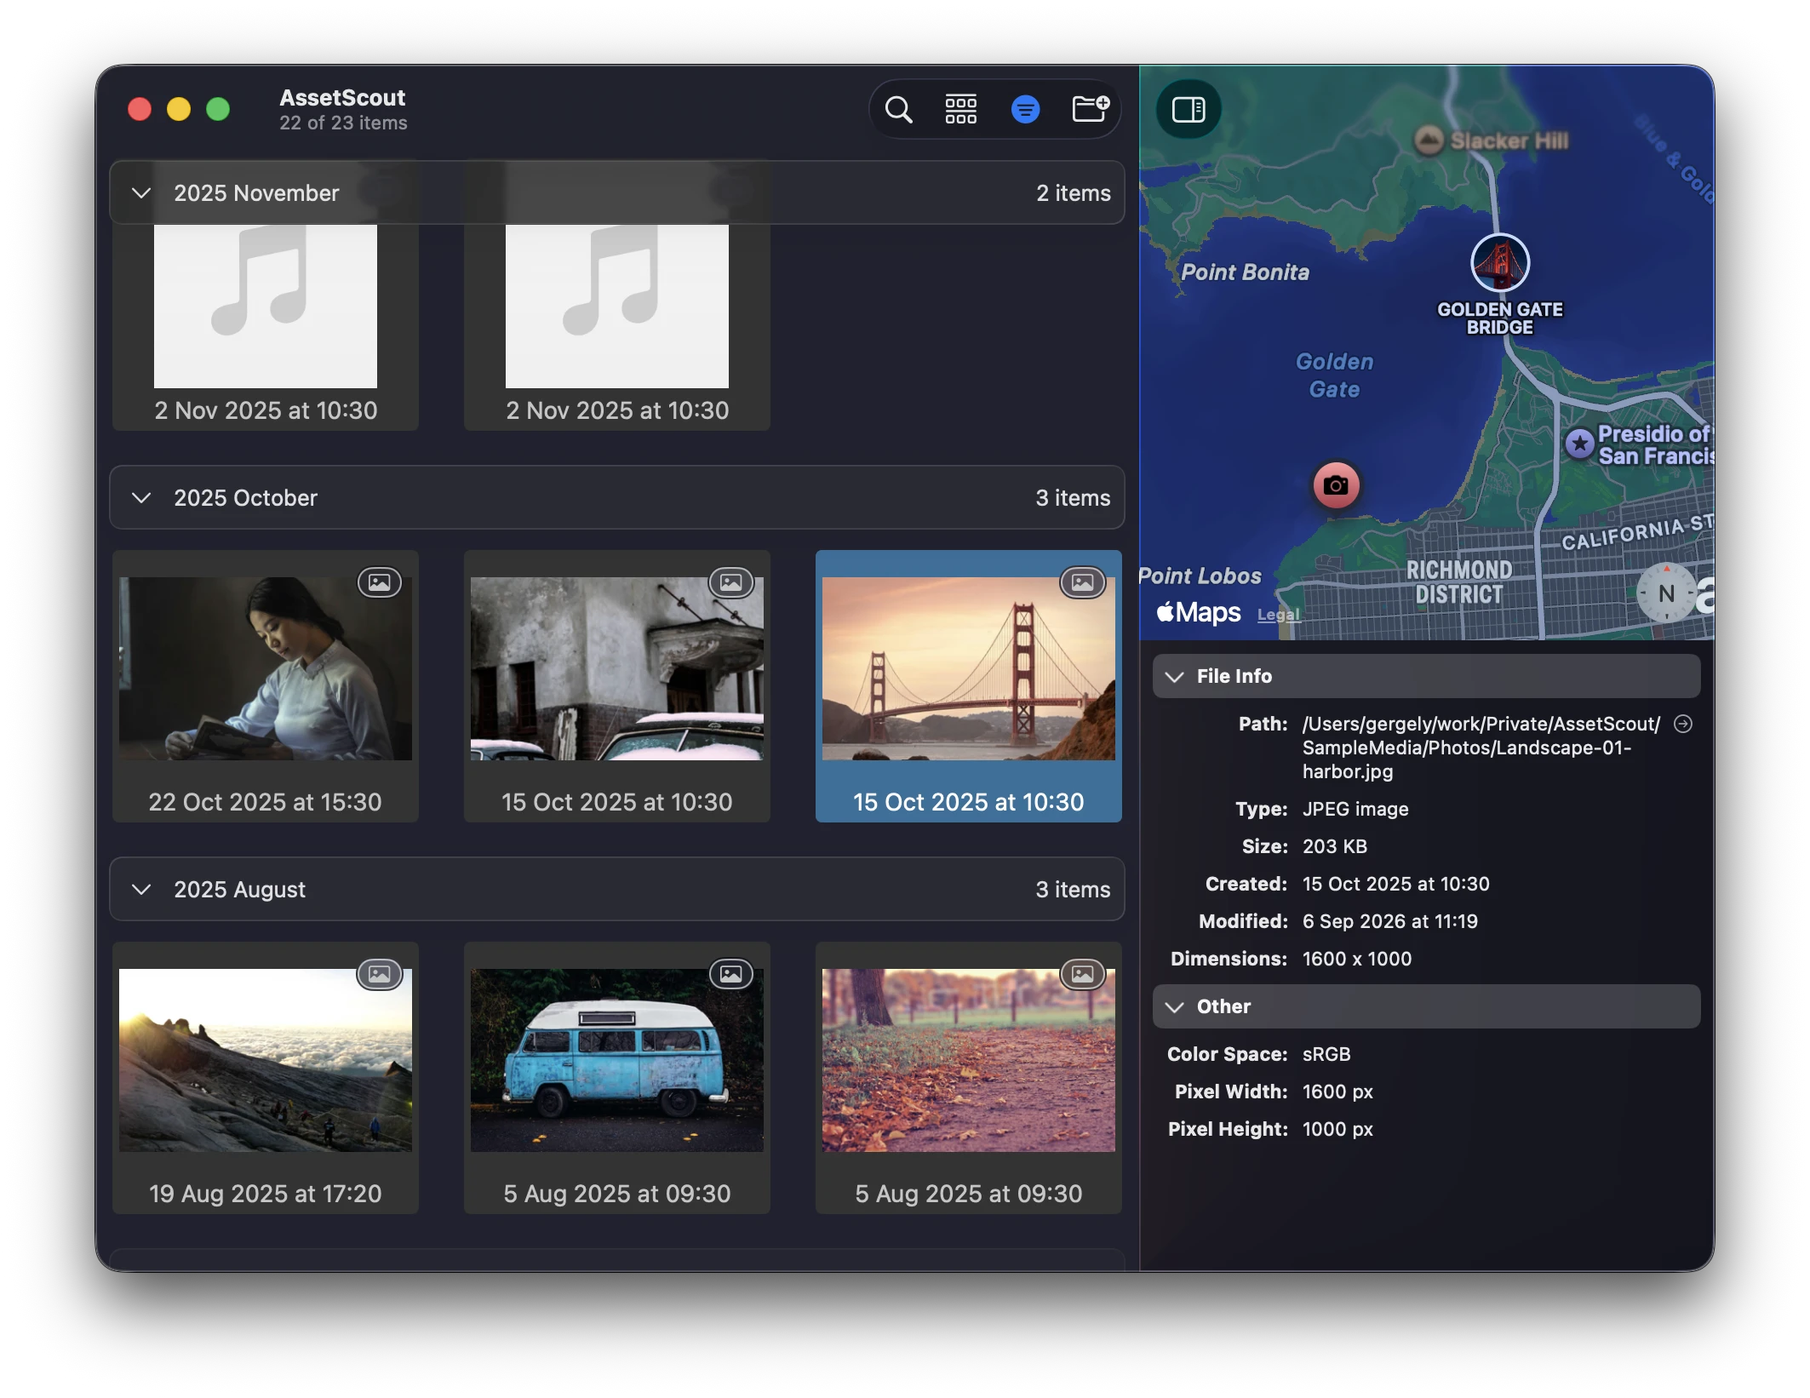
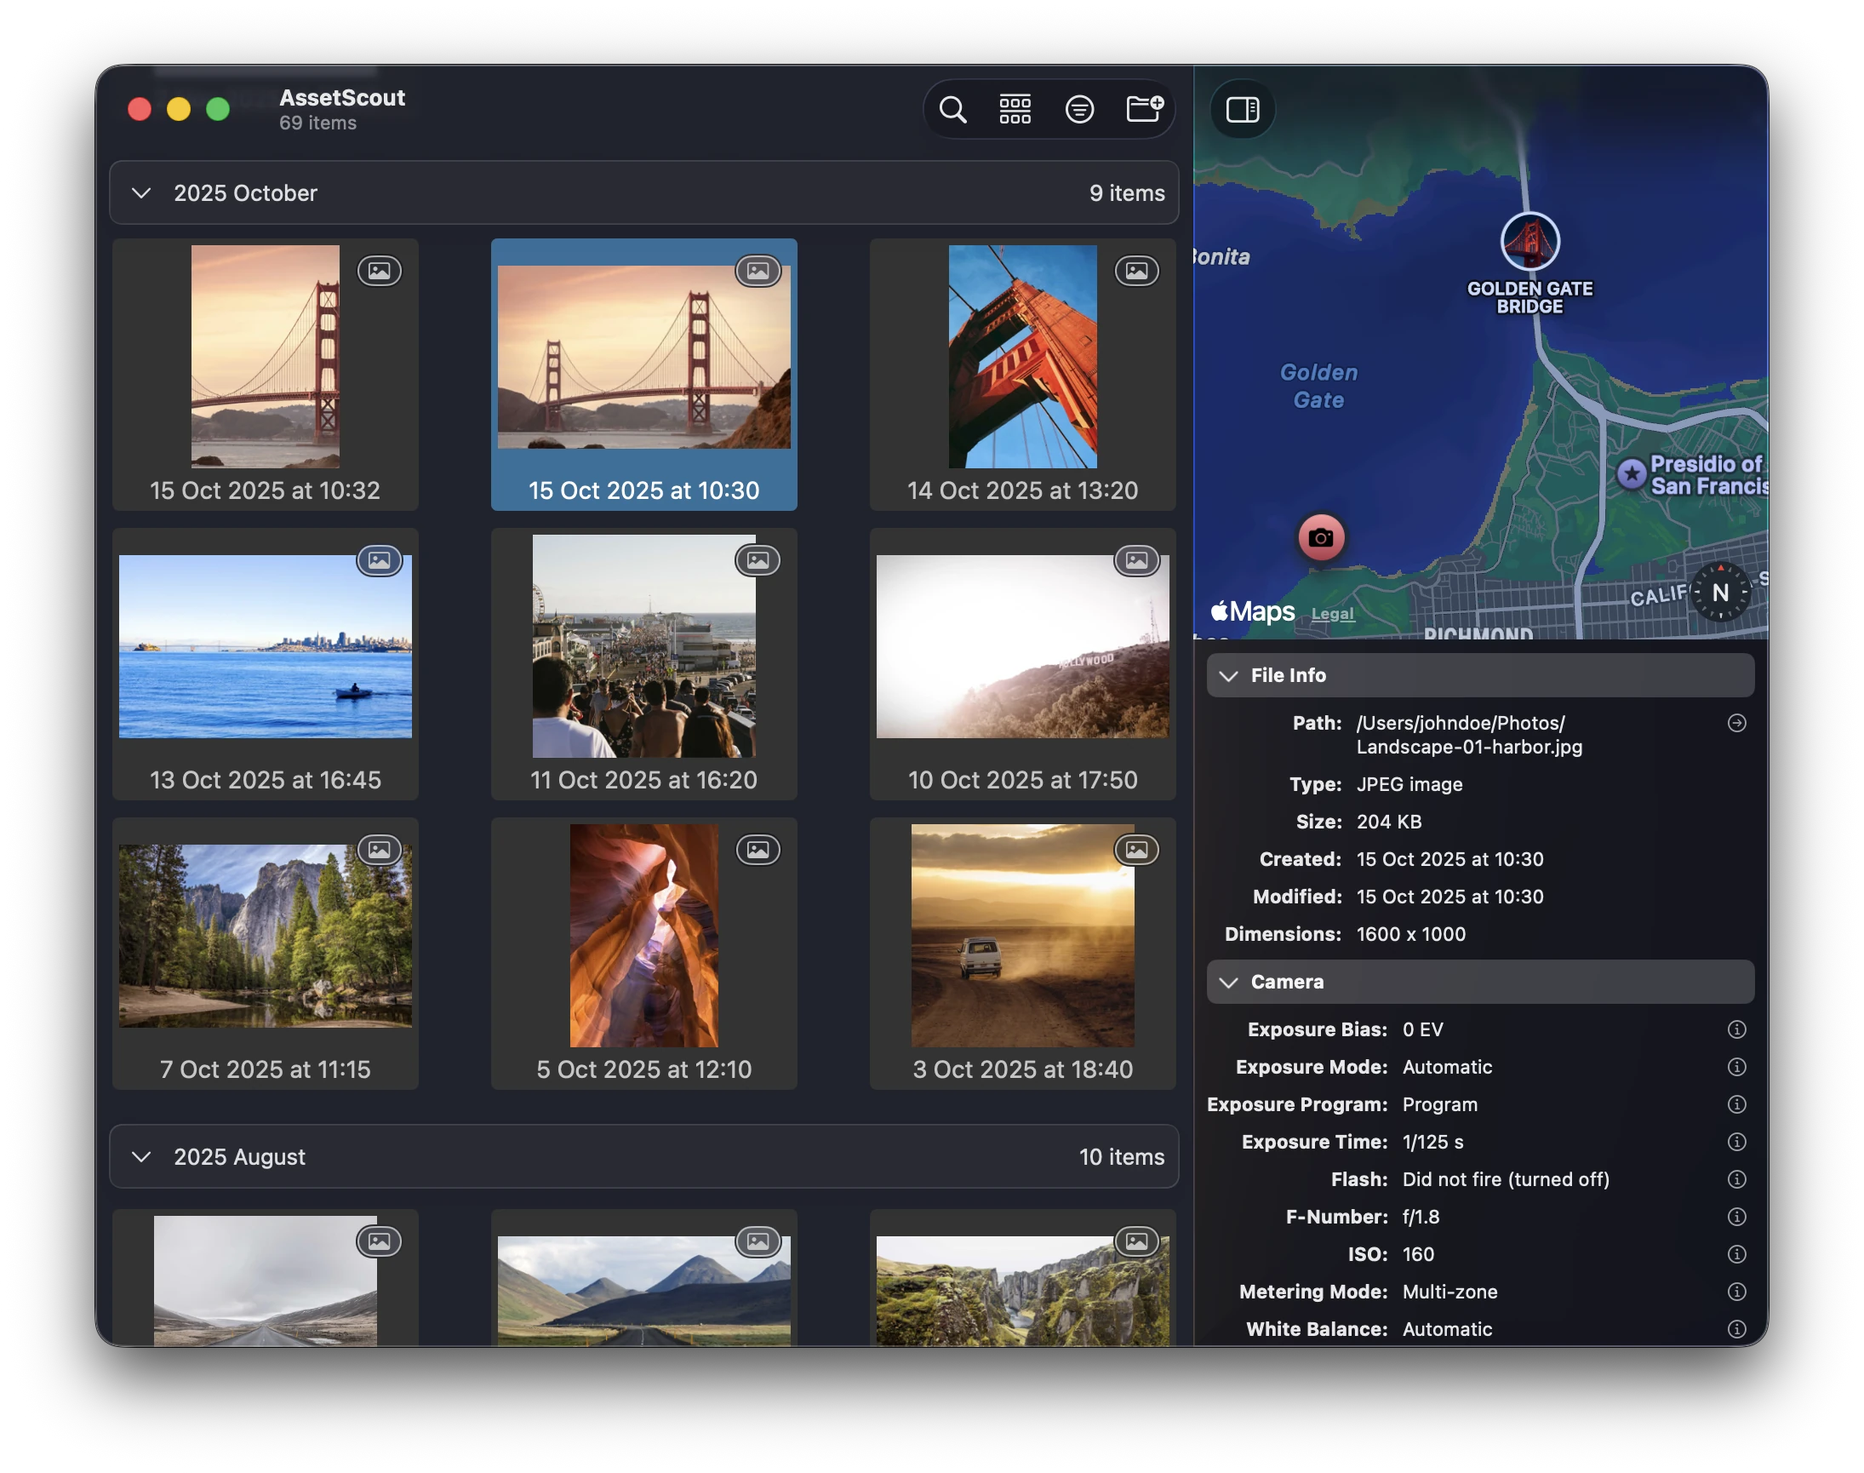
AssetScout's screenshots show the retaken sample-media captures
Window, inspector, selection, context menu and drag come from the new 2190×1730 captures in AssetScout/MediaAssets/Screenshots. Types, scan and empty were byte-identical and are untouched. Toolbar, months and panel are re-cut from Content and InspectorView. Selection, context menu and drag are cut to the left three columns (112,76–1294,1428) because a whole window is unreadable in the three-column Actions row. Light and dark share every rectangle.

Crops get the shadow measured on the earlier crops: 70px pad, 20px corner radius, and two layers (opacity 0.30, sigma 24, 12px down; opacity 0.10, sigma 6, 4px down). Width, height and --w were updated on every page, alt texts and captions follow the new content (69 items, two months, camera section), and the README no longer warns about a real home path in the inspector.

diff --git a/apps/assetscout/index.html b/apps/assetscout/index.html
@@ -185,8 +185,8 @@
                     <source data-dark-source media="(prefers-color-scheme: dark)"
                             srcset="/assets/img/apps/assetscout/window-dark.webp">
                     <img src="/assets/img/apps/assetscout/window.webp"
-                         alt="AssetScout after a scan: a grid of photograph thumbnails under a heading reading 2026 August, 1 618 items, with the window title reading 1 765 of 8 198 items"
-                         width="2190" height="1728" fetchpriority="high">
+                         alt="AssetScout after a scan: a grid of photograph thumbnails under the headings 2025 November, 10 items, and 2025 October, 9 items, with the window title reading 69 items"
+                         width="2190" height="1730" fetchpriority="high">
                 </picture>
             </div>
         </div>
@@ -433,13 +433,13 @@
             </div>
 
             <div class="split__media reveal" style="--delay: 100ms">
-                <div class="shot shot--free settle" data-range="12" style="--w: 408px">
+                <div class="shot shot--free settle" data-range="12" style="--w: 407px">
                     <picture>
                         <source data-dark-source media="(prefers-color-scheme: dark)"
                                 srcset="/assets/img/apps/assetscout/panel-dark.webp">
                         <img src="/assets/img/apps/assetscout/panel.webp"
-                             alt="The inspector on a photograph: a map of the Golden Gate with a camera marker where the picture was taken, then the file path, type, size, dates, dimensions and colour space"
-                             width="817" height="1558" loading="lazy">
+                             alt="The inspector on a photograph: a map of the Golden Gate with a camera marker where the picture was taken, then the file path, type, size, dates and dimensions, and the camera settings"
+                             width="814" height="1646" loading="lazy">
                     </picture>
                 </div>
             </div>
@@ -465,13 +465,13 @@
 
         <div class="features features--3 stagger">
             <div class="feature">
-                <div class="shot shot--free" style="--w: 669px">
+                <div class="shot shot--free" style="--w: 661px">
                     <picture>
                         <source data-dark-source media="(prefers-color-scheme: dark)"
                                 srcset="/assets/img/apps/assetscout/selection-dark.webp">
                         <img src="/assets/img/apps/assetscout/selection.webp"
-                             alt="The top left of the AssetScout window over the grid of 2026 August, with four thumbnails in the middle selected, each on a blue background"
-                             width="1338" height="1236" loading="lazy">
+                             alt="The top left of the AssetScout window over the grid of 2025 November and October, with four photographs selected, each on a blue background"
+                             width="1322" height="1492" loading="lazy">
                     </picture>
                 </div>
                 <h4>Select</h4>
@@ -483,13 +483,13 @@
             </div>
 
             <div class="feature">
-                <div class="shot shot--free" style="--w: 669px">
+                <div class="shot shot--free" style="--w: 661px">
                     <picture>
                         <source data-dark-source media="(prefers-color-scheme: dark)"
                                 srcset="/assets/img/apps/assetscout/context-menu-dark.webp">
                         <img src="/assets/img/apps/assetscout/context-menu.webp"
                              alt="The same window with the menu open over a selected photograph: Show in Finder, Open, Quick Look, Move to Trash, then Rotate Left, Rotate Right, Flip Horizontal and Flip Vertical"
-                             width="1338" height="1236" loading="lazy">
+                             width="1322" height="1492" loading="lazy">
                     </picture>
                 </div>
                 <h4>Look, turn, throw away</h4>
@@ -501,13 +501,13 @@
             </div>
 
             <div class="feature">
-                <div class="shot shot--free" style="--w: 669px">
+                <div class="shot shot--free" style="--w: 661px">
                     <picture>
                         <source data-dark-source media="(prefers-color-scheme: dark)"
                                 srcset="/assets/img/apps/assetscout/drag-dark.webp">
                         <img src="/assets/img/apps/assetscout/drag.webp"
                              alt="The four selected thumbnails lifted off the grid as one stack, a red badge on it showing the number 4, and the empty places in the grid they came from"
-                             width="1338" height="1236" loading="lazy">
+                             width="1322" height="1492" loading="lazy">
                     </picture>
                 </div>
                 <h4>Drag them out</h4>

diff --git a/apps/assetscout/docs/first-scan/index.html b/apps/assetscout/docs/first-scan/index.html
@@ -242,16 +242,16 @@
 
     <h2>Read the grid</h2>
         <figure class="figure">
-        <div class="shot shot--free" style="--w: 682px">
+        <div class="shot shot--free" style="--w: 1053px">
             <picture>
                 <source data-dark-source media="(prefers-color-scheme: dark)"
                         srcset="/assets/img/apps/assetscout/months-dark.webp">
                 <img src="/assets/img/apps/assetscout/months.webp"
-                     alt="The grid divided into 2025 November with 2 items, 2025 October with 3 items and 2025 August"
-                     width="1365" height="1184" loading="lazy">
+                     alt="The grid divided into 2025 November with 10 items and 2025 October with 9 items"
+                     width="2106" height="1492" loading="lazy">
             </picture>
         </div>
-        <figcaption>Three months of a small scan. Click a heading to fold that month away.</figcaption>
+        <figcaption>Two months of a small scan. Click a heading to fold that month away.</figcaption>
     </figure>
     <p>
         Items are divided into months, newest month first, and each heading counts what is under
@@ -266,13 +266,13 @@
         and the duration; for a document, the page count and who made it.
     </p>
     <figure class="figure figure--wide">
-        <div class="shot shot--free" style="--w: 1063px">
+        <div class="shot shot--free" style="--w: 1095px">
             <picture>
                 <source data-dark-source media="(prefers-color-scheme: dark)"
                         srcset="/assets/img/apps/assetscout/inspector-dark.webp">
                 <img src="/assets/img/apps/assetscout/inspector.webp"
-                     alt="The window with the inspector open: the grid on the left grouped into 2025 November, October and August, and a map with the file's details on the right"
-                     width="2126" height="1642" loading="lazy">
+                     alt="The window with the inspector open: the grid on the left grouped into 2025 October and August, and on the right a map of the Golden Gate with the file's details and camera settings under it"
+                     width="2190" height="1730" loading="lazy">
             </picture>
         </div>
         <figcaption>The grid on the left, and what the selected photograph knows about itself on the right.</figcaption>

diff --git a/apps/assetscout/docs/window/groups/index.html b/apps/assetscout/docs/window/groups/index.html
@@ -198,16 +198,16 @@
     <p class="doc__lead">The grid is divided into months, and every heading counts what is under it. Which date the division is built from is a choice you can change at any time.</p>
 
     <figure class="figure">
-        <div class="shot shot--free" style="--w: 682px">
+        <div class="shot shot--free" style="--w: 1053px">
             <picture>
                 <source data-dark-source media="(prefers-color-scheme: dark)"
                         srcset="/assets/img/apps/assetscout/months-dark.webp">
                 <img src="/assets/img/apps/assetscout/months.webp"
-                     alt="The grid divided into 2025 November with 2 items, 2025 October with 3 items and 2025 August"
-                     width="1365" height="1184" loading="lazy">
+                     alt="The grid divided into 2025 November with 10 items and 2025 October with 9 items"
+                     width="2106" height="1492" loading="lazy">
             </picture>
         </div>
-        <figcaption>Three months of a small scan, newest first, each heading with its own count.</figcaption>
+        <figcaption>Two months of a small scan, newest first, each heading with its own count.</figcaption>
     </figure>
 
     <h2>Months, newest first</h2>

diff --git a/apps/assetscout/docs/inspector/file-info/index.html b/apps/assetscout/docs/inspector/file-info/index.html
@@ -198,13 +198,13 @@
     <p class="doc__lead">The panel on the right shows what is written inside the file you selected. This is the part of it that every file has.</p>
 
     <figure class="figure">
-        <div class="shot shot--free" style="--w: 408px">
+        <div class="shot shot--free" style="--w: 407px">
             <picture>
                 <source data-dark-source media="(prefers-color-scheme: dark)"
                         srcset="/assets/img/apps/assetscout/panel-dark.webp">
                 <img src="/assets/img/apps/assetscout/panel.webp"
-                     alt="The inspector on a photograph: a map of the Golden Gate with a camera marker, then the file path, type, size, dates, dimensions and colour space"
-                     width="817" height="1558" loading="lazy">
+                     alt="The inspector on a photograph: a map of the Golden Gate with a camera marker, then the file path, type, size, dates and dimensions, and the camera settings"
+                     width="814" height="1646" loading="lazy">
             </picture>
         </div>
         <figcaption>The inspector on a photograph that carries GPS coordinates.</figcaption>

diff --git a/apps/assetscout/docs/index.html b/apps/assetscout/docs/index.html
@@ -203,11 +203,11 @@
                 <source data-dark-source media="(prefers-color-scheme: dark)"
                         srcset="/assets/img/apps/assetscout/window-dark.webp">
                 <img src="/assets/img/apps/assetscout/window.webp"
-                     alt="The AssetScout window after a scan: a grid of photograph thumbnails under a heading reading 2026 August, 1 618 items, and a window title reading 1 765 of 8 198 items"
-                     width="2190" height="1728" loading="lazy">
+                     alt="The AssetScout window after a scan: a grid of photograph thumbnails under the headings 2025 November, 10 items, and 2025 October, 9 items, and a window title reading 69 items"
+                     width="2190" height="1730" loading="lazy">
             </picture>
         </div>
-        <figcaption>A folder of 8 198 files after a scan. The window title counts what is listed and what the scan found; each month heading counts its own.</figcaption>
+        <figcaption>A small folder after a scan. The window title counts what is listed; each month heading counts its own.</figcaption>
     </figure>
 
     <h2>What it does</h2>

diff --git a/apps/assetscout/docs/scanning/progress/index.html b/apps/assetscout/docs/scanning/progress/index.html
@@ -203,11 +203,11 @@
                 <source data-dark-source media="(prefers-color-scheme: dark)"
                         srcset="/assets/img/apps/assetscout/toolbar-dark.webp">
                 <img src="/assets/img/apps/assetscout/toolbar.webp"
-                     alt="The titlebar: the app name with the item count under it, and the search, grouping, filter and scan buttons on the right"
-                     width="2106" height="544" loading="lazy">
+                     alt="The titlebar: the app name with the item count under it, and the search, grouping, filter and scan buttons and the inspector button on the right, above the first month heading and its first row of thumbnails"
+                     width="2106" height="692" loading="lazy">
             </picture>
         </div>
-        <figcaption>The titlebar. The line under the app name counts what is listed against what the scan found.</figcaption>
+        <figcaption>The titlebar. The line under the app name counts what is listed. When a filter hides something, it also says how many the scan found.</figcaption>
     </figure>
 
     <h2>Step one: walking the folders</h2>

diff --git a/apps/assetscout/docs/files/looking/index.html b/apps/assetscout/docs/files/looking/index.html
@@ -198,13 +198,13 @@
     <p class="doc__lead">Three ways to see the file itself rather than what is written about it — and none of them changes anything.</p>
 
     <figure class="figure">
-        <div class="shot shot--free" style="--w: 490px">
+        <div class="shot shot--free" style="--w: 661px">
             <picture>
                 <source data-dark-source media="(prefers-color-scheme: dark)"
                         srcset="/assets/img/apps/assetscout/context-menu-dark.webp">
                 <img src="/assets/img/apps/assetscout/context-menu.webp"
                      alt="The menu over a selected photograph: Show in Finder, Open, Quick Look, Move to Trash, then Rotate Left, Rotate Right, Flip Horizontal and Flip Vertical"
-                     width="980" height="880" loading="lazy">
+                     width="1322" height="1492" loading="lazy">
             </picture>
         </div>
         <figcaption>The menu of a selected photograph. Every item works on the whole selection.</figcaption>

diff --git a/apps/assetscout/docs/window/selecting/index.html b/apps/assetscout/docs/window/selecting/index.html
@@ -198,13 +198,13 @@
     <p class="doc__lead">Everything AssetScout can do to a file it does to the whole selection. These are the ways to build one.</p>
 
     <figure class="figure">
-        <div class="shot shot--free" style="--w: 490px">
+        <div class="shot shot--free" style="--w: 661px">
             <picture>
                 <source data-dark-source media="(prefers-color-scheme: dark)"
                         srcset="/assets/img/apps/assetscout/selection-dark.webp">
                 <img src="/assets/img/apps/assetscout/selection.webp"
                      alt="Four thumbnails in the grid selected, each with a blue background behind it"
-                     width="980" height="880" loading="lazy">
+                     width="1322" height="1492" loading="lazy">
             </picture>
         </div>
         <figcaption>Four items selected. Every action from here works on all four.</figcaption>

diff --git a/apps/assetscout/docs/files/moving/index.html b/apps/assetscout/docs/files/moving/index.html
@@ -216,13 +216,13 @@
 
     <h2>Dragging files out</h2>
         <figure class="figure">
-        <div class="shot shot--free" style="--w: 490px">
+        <div class="shot shot--free" style="--w: 661px">
             <picture>
                 <source data-dark-source media="(prefers-color-scheme: dark)"
                         srcset="/assets/img/apps/assetscout/drag-dark.webp">
                 <img src="/assets/img/apps/assetscout/drag.webp"
                      alt="Four thumbnails being dragged out of the window as a stack, with a red badge showing the number 4"
-                     width="980" height="880" loading="lazy">
+                     width="1322" height="1492" loading="lazy">
             </picture>
         </div>
         <figcaption>Four items on their way out of the window. The badge counts what is being dragged.</figcaption>

diff --git a/README.md b/README.md
@@ -181,7 +181,7 @@ that matches. It is a `<picture>`, so the browser fetches one file and not both:
     <source data-dark-source media="(prefers-color-scheme: dark)"
             srcset="/assets/img/apps/assetscout/window-dark.webp">
     <img src="/assets/img/apps/assetscout/window.webp" alt="…"
-         width="2190" height="1728">
+         width="2190" height="1730">
 </picture>
 ```
 
@@ -230,10 +230,10 @@ Four things are still open:
    twice, in the hero and in `#beta`. That page waits in `drafts/` for now.
 2. **The screenshots contain real data.** The older Tracktiv captures, used by
    the page in `drafts/`, show tracked time with real client and project names
-   in it. The teaser's `window.webp` pair names only our own projects. AssetScout's inspector figure prints the
-   file path of the selected picture, and that path is a folder inside the
-   developer's home directory. Check both sets before publishing, and retake
-   anything that should not be public.
+   in it. The teaser's `window.webp` pair names only our own projects. AssetScout's
+   captures were retaken on sample media, and the inspector prints the path
+   under a made-up `/Users/johndoe`. Check both sets before publishing, and
+   retake anything that should not be public.
 3. **The App Store link.** Every AssetScout badge points at
    `https://apps.apple.com/app/assetscout`, which is a guess. Swap in the real
    product URL: it is `store` in `APPS` in `tools/chrome.py`, marked `TODO`.
